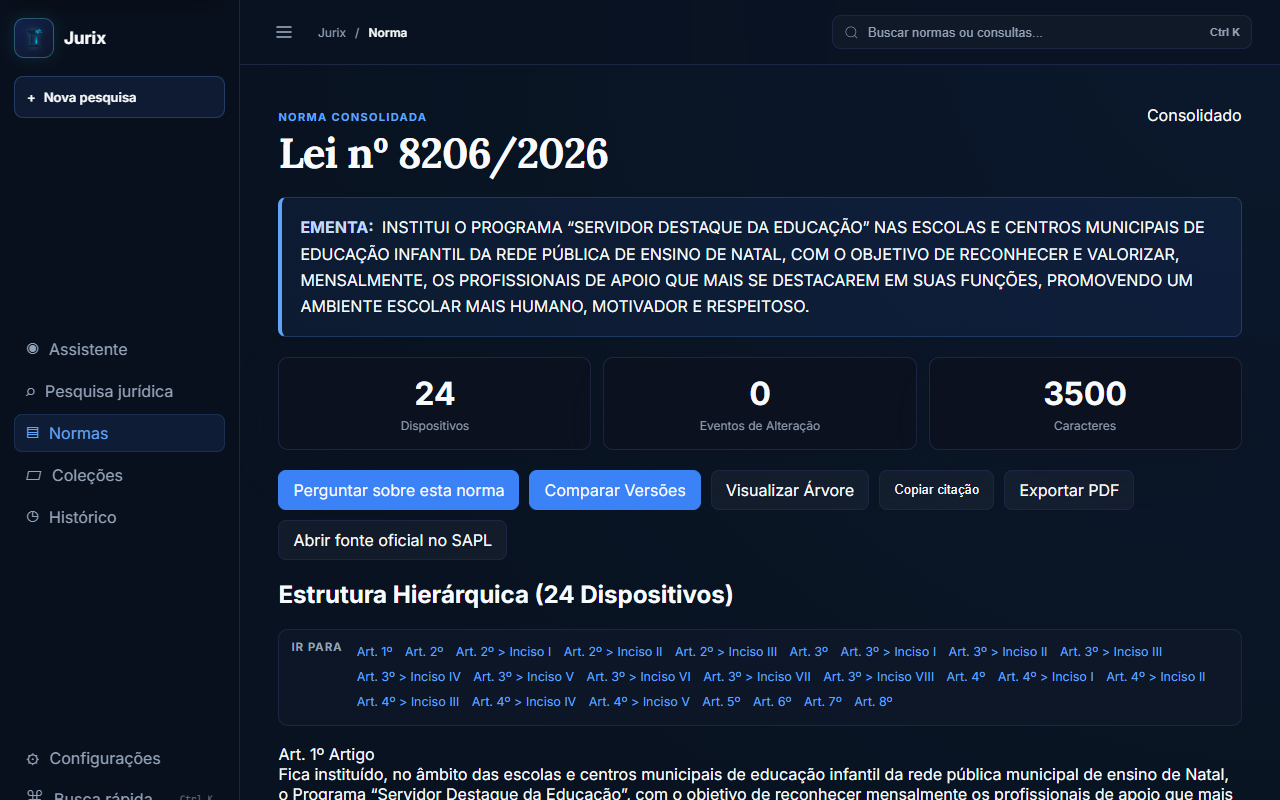
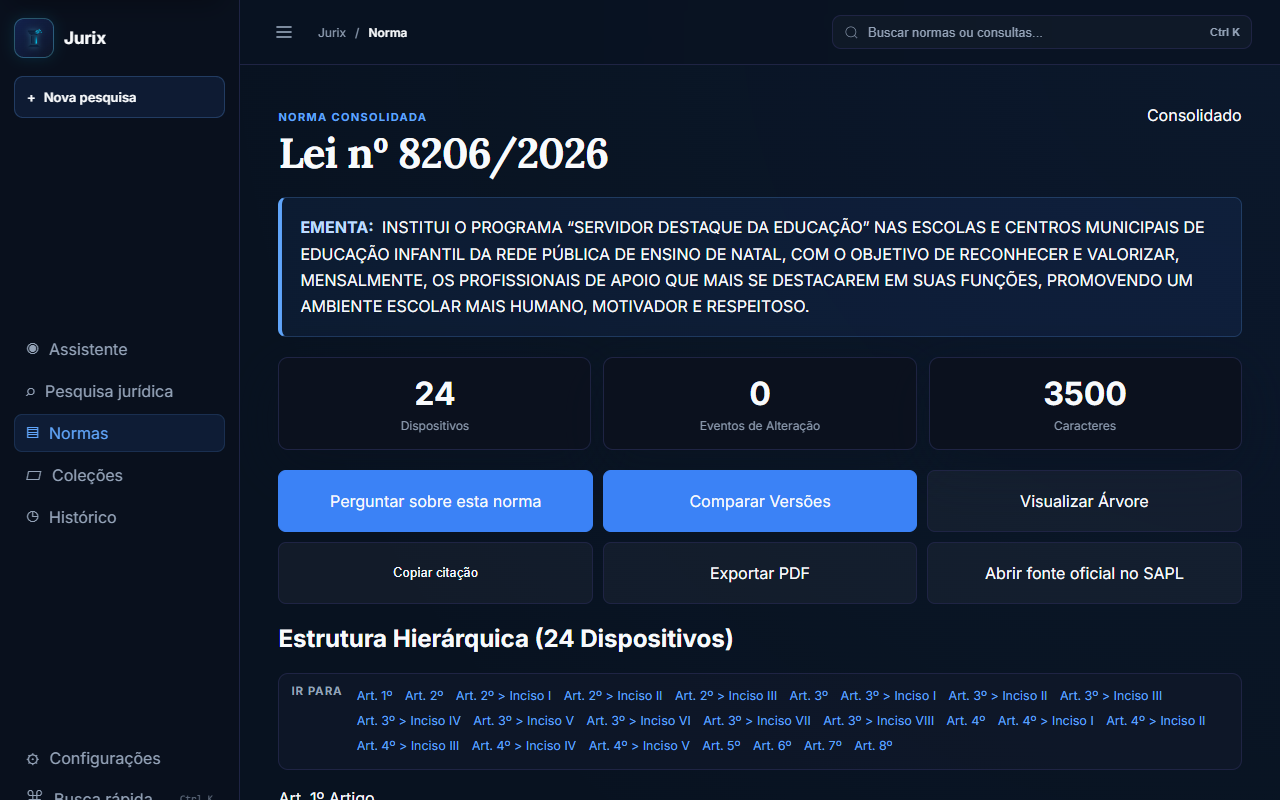
ui(normas): balance norm detail actions

Changed region(s): [[0.2188, 0.5625, 0.9688, 1.0], [0.7812, 0.6875, 0.9062, 0.75]]

diff --git a/src/apps/core/static/css/jurix-legal-detail.css b/src/apps/core/static/css/jurix-legal-detail.css
@@ -5,8 +5,8 @@
 .legal-detail-eyebrow { color:var(--figma-blue-light); font-size:11px; font-weight:700; letter-spacing:.12em; text-transform:uppercase; }
 .legal-detail-ementa { margin:20px 0; padding:16px 18px; background:color-mix(in srgb, var(--figma-blue-primary) 8%, transparent); border:1px solid color-mix(in srgb, var(--figma-blue-light) 22%, transparent); border-left:4px solid var(--figma-blue-light); border-radius:8px; color:var(--figma-text-white); line-height:1.65; }
 .legal-detail-ementa strong { color:var(--figma-blue-soft); margin-right:4px; }
-.legal-detail-actions { display:flex; flex-wrap:wrap; gap:10px; margin:20px 0 4px; }
-.legal-detail-actions .btn { display:inline-flex; align-items:center; min-height:38px; padding:0 14px; border-radius:8px; background:var(--figma-blue-primary); border:1px solid var(--figma-blue-primary); color:var(--figma-text-white); text-decoration:none; }
+.legal-detail-actions { display:grid; grid-template-columns:repeat(auto-fit,minmax(min(100%,15rem),1fr)); gap:10px; margin:20px 0 4px; }
+.legal-detail-actions .btn { display:inline-flex; align-items:center; justify-content:center; min-width:0; min-height:44px; padding:8px 14px; border-radius:8px; background:var(--figma-blue-primary); border:1px solid var(--figma-blue-primary); color:var(--figma-text-white); text-align:center; text-decoration:none; }
 .legal-detail-actions .btn:hover { background:var(--figma-blue-dark); }
 .legal-detail-actions .btn-secondary { background:rgba(255,255,255,.04); border-color:var(--figma-border); color:var(--figma-text-white); }
 .legal-detail-card .stats-grid { display:grid; grid-template-columns:repeat(3,minmax(0,1fr)); gap:12px; margin:20px 0; }
@@ -61,5 +61,4 @@
 .jurix-copy-fallback { position: fixed; left: -9999px; width: 1px; height: 1px; opacity: 0; }
 .tree-node-children { margin-top:10px; }
 @media (max-width:640px) { .legal-detail-card .stats-grid { grid-template-columns:1fr; } .legal-detail-card { padding:16px; } }
-@media (max-width:640px) { .legal-detail-actions .btn { min-height:44px; } }
 @media (max-width:640px) { .legal-detail-collection-form { align-items:stretch; flex-direction:column; } .legal-detail-collection-form select, .legal-detail-collection-form .btn { width:100%; max-width:none; } .norma-timeline-item { grid-template-columns:1fr; gap:8px; } }

diff --git a/src/apps/legislation/templates/legislation/norma_detail.html b/src/apps/legislation/templates/legislation/norma_detail.html
@@ -6,7 +6,7 @@
 {% block topbar %}{% include 'legislation/workspace/_topbar.html' with topbar_section='Norma' %}{% endblock %}
 
 {% block extra_css %}
-<link rel="stylesheet" href="{% static 'css/jurix-legal-detail.css' %}">
+<link rel="stylesheet" href="{% static 'css/jurix-legal-detail.css' %}?v=20260929-action-grid2">
 <link rel="stylesheet" href="{% static 'css/jurix-legacy-shell.css' %}">
 {% endblock %}
 

diff --git a/FRONTEND_LOG.md b/FRONTEND_LOG.md
@@ -901,3 +901,57 @@ failure.
 Next action: Continue the full application interaction audit across assistant,
 history, collections, search, settings, norms, detail, comparison, and tree;
 prioritize reproducible keyboard, responsive, and cross-route state bugs.
+
+## Cycle 20 — 2026-09-29
+
+Area: Norm detail action hierarchy and responsive layout.
+
+Goal: Remove the visually stranded official-source action on `/normas/<id>/`
+without changing legal content or application behavior.
+
+Observed problems: At the 1280px browser viewport, the detail header actions
+used wrapping flex layout. Five actions occupied the first row while “Abrir
+fonte oficial no SAPL” appeared alone in the second row. The CSS file was not
+versioned in the template, so browser cache could also retain the previous
+layout after deploy.
+
+Changes made: Replaced the wrapping action row with a responsive CSS grid
+using existing button colors and surfaces; actions align consistently and
+retain centered labels and 44px minimum target height. Added a cache-busting
+version to `jurix-legal-detail.css`. Added a structural regression assertion.
+No backend, model, API, or legal text changed.
+
+Browser validation: Inspected the real `/normas/3/` route in Chromium and
+iterated from an initial 4+2 layout with wrapped primary labels to a balanced
+3×2 grid at 1280px. At 1440px it displays as 4+2; at 390px as one column.
+Measured six controls at 44px or larger, zero document horizontal overflow,
+and no console errors or failed requests at all three widths.
+
+Tests: `npm test` passed, including 12 real Chromium tests and the new
+norm-detail action-grid regression test (14 focused UI tests passed).
+Updated `docs/ui-audit/after/` captures: 30 views across ten routes and three
+viewports, zero views flagged. The before/after manifests still contain
+matching route/view filenames; all 60 views report HTTP 200, visible main
+content, no horizontal overflow, no console errors, failed requests, or bad
+responses. `git diff --check` passed.
+
+Console: No browser console errors on the live norm-detail route at desktop or
+mobile widths.
+
+Responsive validation: The grid resolves to four columns at 1440px, three at
+1280px, and one at 390px. The page document remains within viewport width at
+each size; every action remains reachable and has an adequate hit area.
+
+Visual score: Norm detail action group 8.9/10 after this cycle (estimated
+7.8/10 before); standalone wrapping and variable action placement are gone.
+This score applies only to the action group, not the entire application.
+
+Regressions: None observed in the full JavaScript suite or the live route.
+
+Screenshots: Refreshed all 30 files in `docs/ui-audit/after/`; the norm detail
+captures show balanced actions at desktop widths and stacked actions on mobile.
+
+Next action: Continue remaining UI/UX audit across the norm reading content,
+comparison, search filters/results, history and collection interactions; use
+new-cycle evidence rather than treating the passing route screenshot gate as
+proof that the full product is complete.
